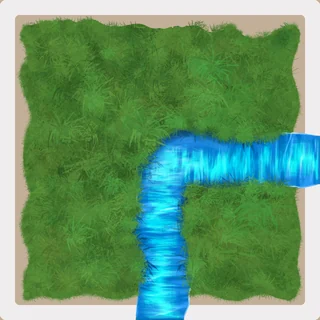
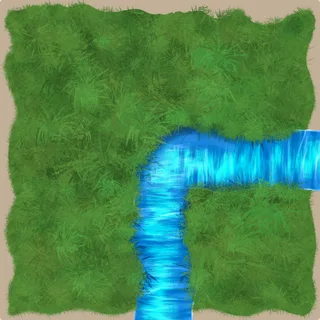
Projects: Rainbow River tiles cropped to the printed face, no white border
Claude-Session: https://claude.ai/code/session_01X3LgmZH5haXE22BLdYX3sk

diff --git a/projects/index.html b/projects/index.html
@@ -22,7 +22,7 @@
 <link rel="preconnect" href="https://fonts.gstatic.com" crossorigin>
 <link rel="stylesheet" href="https://fonts.googleapis.com/css2?family=Bricolage+Grotesque:wght@300..800&family=Plus+Jakarta+Sans:ital,wght@0,300..800;1,300..800&family=Rampart+One&display=swap">
 <link rel="stylesheet" href="../assets/site.css?v=20261013u">
-<link rel="stylesheet" href="../assets/dir-i.css?v=20261110m">
+<link rel="stylesheet" href="../assets/dir-i.css?v=20261110n">
 <link rel="stylesheet" href="../assets/case-i.css?v=20261109a">
 <!-- the ground fetched first, so it is usually there for the first frame -->
 <link rel="preload" as="image" href="../assets/tex/moss-quiet-2k.webp" fetchpriority="high">
@@ -93,7 +93,7 @@
   <section class="i-row g-grid">
           <article class="card lay g-card g1 g-pitch"><div class="cf"><h3>The Daily Weather</h3><div class="c-art art-dw"><img class="wallet" src="../assets/img/dw-wallet.webp" alt="The Daily Weather in its wallet"></div><dl class="g-facts"><div><dt>Players</dt><dd>1</dd></div><div><dt>Time</dt><dd>10 min / day</dd></div><div><dt>Audience</dt><dd>Casual</dd></div><div><dt>Style</dt><dd>Morning puzzle</dd></div><div><dt>Status</dt><dd>Published</dd></div><div><dt>More</dt><dd><a href="../work/daily-weather/">Case study</a></dd></div></dl><p class="c-text">A pocket-sized 18-card game with 7 years of unique puzzles. You can buy it now from <a href="https://buttonshygames.com/">Button Shy</a> for $15.</p></div></article>
           <article class="card lay g-card g-pitch"><div class="cf"><h3>Magical Athlete: Second Wind</h3><div class="c-art art-ma"><img class="racer" src="../assets/img/nemesis.webp" alt="The Nemesis racer card: a curly-haired figure in a robe swinging a sword. Its power reads: When other racers roll for their main move, I can roll too. If I roll the same, I move that amount." width="560" height="781"></div><dl class="g-facts"><div><dt>Players</dt><dd>2–6</dd></div><div><dt>Time</dt><dd>30 min</dd></div><div><dt>Audience</dt><dd>Family</dd></div><div><dt>Style</dt><dd>Silly racing</dd></div><div><dt>Status</dt><dd>Published</dd></div><div><dt>More</dt><dd><a href="https://cmyk.games/secondwind">Announcement</a></dd></div></dl><p class="c-text">Magical Athlete: Second Wind is a standalone (or combine-able!) expansion to Magical Athlete. Recruit a team of absurd racers—Diva, Hog Knight, Stepdad—then just roll your die and move that many spaces. Except each racer has a deeply unfair, game breaking power.</p><p class="c-text">For Second Wind, I designed the Nemesis racer.</p></div></article>
-          <article class="card lay g-card g-pitch g-rr"><div class="cf"><h3>Rainbow River</h3><div class="c-art art-rr"><img class="box" src="../assets/img/rainbow-river-box.webp" alt="The Rainbow River box: a painted river running red, green and blue from snowy mountains through a desert, with four explorers looking on from a cliff, and Ian Tarter's name under the title" width="640" height="623" loading="lazy"></div><dl class="g-facts"><div><dt>Players</dt><dd>2–4</dd></div><div><dt>Time</dt><dd>20 min</dd></div><div><dt>Audience</dt><dd>Family</dd></div><div><dt>Style</dt><dd>Casual abstract</dd></div><div><dt>Status</dt><dd>Self-Published</dd></div><div><dt>More</dt><dd><a href="https://boardgamegeek.com/boardgame/350782/rainbow-river">BGG link</a></dd></div></dl><p class="c-text">A family game where players compete for map pieces on an ever-shrinking board to build the best river.</p><p class="c-text">I funded it on Kickstarter and ran production from prototype to manufacturing.</p></div></article><div class="rr-scatter" aria-hidden="true"><div class="rr-tile lay"><img src="../assets/img/rainbow-river-tile-d.webp" alt="" width="320" height="320" loading="lazy"></div><div class="rr-tile lay"><img src="../assets/img/rainbow-river-tile-a.webp" alt="" width="320" height="320" loading="lazy"></div><div class="rr-tile lay"><img src="../assets/img/rainbow-river-tile-f.webp" alt="" width="320" height="320" loading="lazy"></div><div class="rr-tile lay"><img src="../assets/img/rainbow-river-tile-b.webp" alt="" width="320" height="320" loading="lazy"></div><div class="rr-tile lay"><img src="../assets/img/rainbow-river-tile-g.webp" alt="" width="320" height="320" loading="lazy"></div><div class="rr-tile lay"><img src="../assets/img/rainbow-river-tile-c.webp" alt="" width="320" height="320" loading="lazy"></div><div class="rr-tile lay"><img src="../assets/img/rainbow-river-tile-h.webp" alt="" width="320" height="320" loading="lazy"></div><div class="rr-tile lay"><img src="../assets/img/rainbow-river-tile-e.webp" alt="" width="320" height="320" loading="lazy"></div></div>
+          <article class="card lay g-card g-pitch g-rr"><div class="cf"><h3>Rainbow River</h3><div class="c-art art-rr"><img class="box" src="../assets/img/rainbow-river-box.webp" alt="The Rainbow River box: a painted river running red, green and blue from snowy mountains through a desert, with four explorers looking on from a cliff, and Ian Tarter's name under the title" width="640" height="623" loading="lazy"></div><dl class="g-facts"><div><dt>Players</dt><dd>2–4</dd></div><div><dt>Time</dt><dd>20 min</dd></div><div><dt>Audience</dt><dd>Family</dd></div><div><dt>Style</dt><dd>Casual abstract</dd></div><div><dt>Status</dt><dd>Self-Published</dd></div><div><dt>More</dt><dd><a href="https://boardgamegeek.com/boardgame/350782/rainbow-river">BGG link</a></dd></div></dl><p class="c-text">A family game where players compete for map pieces on an ever-shrinking board to build the best river.</p><p class="c-text">I funded it on Kickstarter and ran production from prototype to manufacturing.</p></div></article><div class="rr-scatter" aria-hidden="true"><div class="rr-tile lay"><img src="../assets/img/rainbow-river-tile-d.webp?v=2" alt="" width="320" height="320" loading="lazy"></div><div class="rr-tile lay"><img src="../assets/img/rainbow-river-tile-a.webp?v=2" alt="" width="320" height="320" loading="lazy"></div><div class="rr-tile lay"><img src="../assets/img/rainbow-river-tile-f.webp?v=2" alt="" width="320" height="320" loading="lazy"></div><div class="rr-tile lay"><img src="../assets/img/rainbow-river-tile-b.webp?v=2" alt="" width="320" height="320" loading="lazy"></div><div class="rr-tile lay"><img src="../assets/img/rainbow-river-tile-g.webp?v=2" alt="" width="320" height="320" loading="lazy"></div><div class="rr-tile lay"><img src="../assets/img/rainbow-river-tile-c.webp?v=2" alt="" width="320" height="320" loading="lazy"></div><div class="rr-tile lay"><img src="../assets/img/rainbow-river-tile-h.webp?v=2" alt="" width="320" height="320" loading="lazy"></div><div class="rr-tile lay"><img src="../assets/img/rainbow-river-tile-e.webp?v=2" alt="" width="320" height="320" loading="lazy"></div></div>
         </section>
   <article class="card lay g-note g-quotes"><div class="cf"><blockquote class="s-quote"><p>“The Daily Weather is going to be a beloved addition to your collection.”</p><cite><a href="https://whatsericplaying.com/2026/02/09/the-daily-weather/">What’s Eric Playing?</a></cite></blockquote><blockquote class="s-quote"><p>“If you’re a fan of spatial puzzles, this one is a must-have in my opinion.”</p><cite><a href="https://yogibearanddelaware.com/2026/01/25/its-raining-men-a-preview-of-the-daily-weather/">Yogi Bear and Delaware</a></cite></blockquote></div></article>
 
